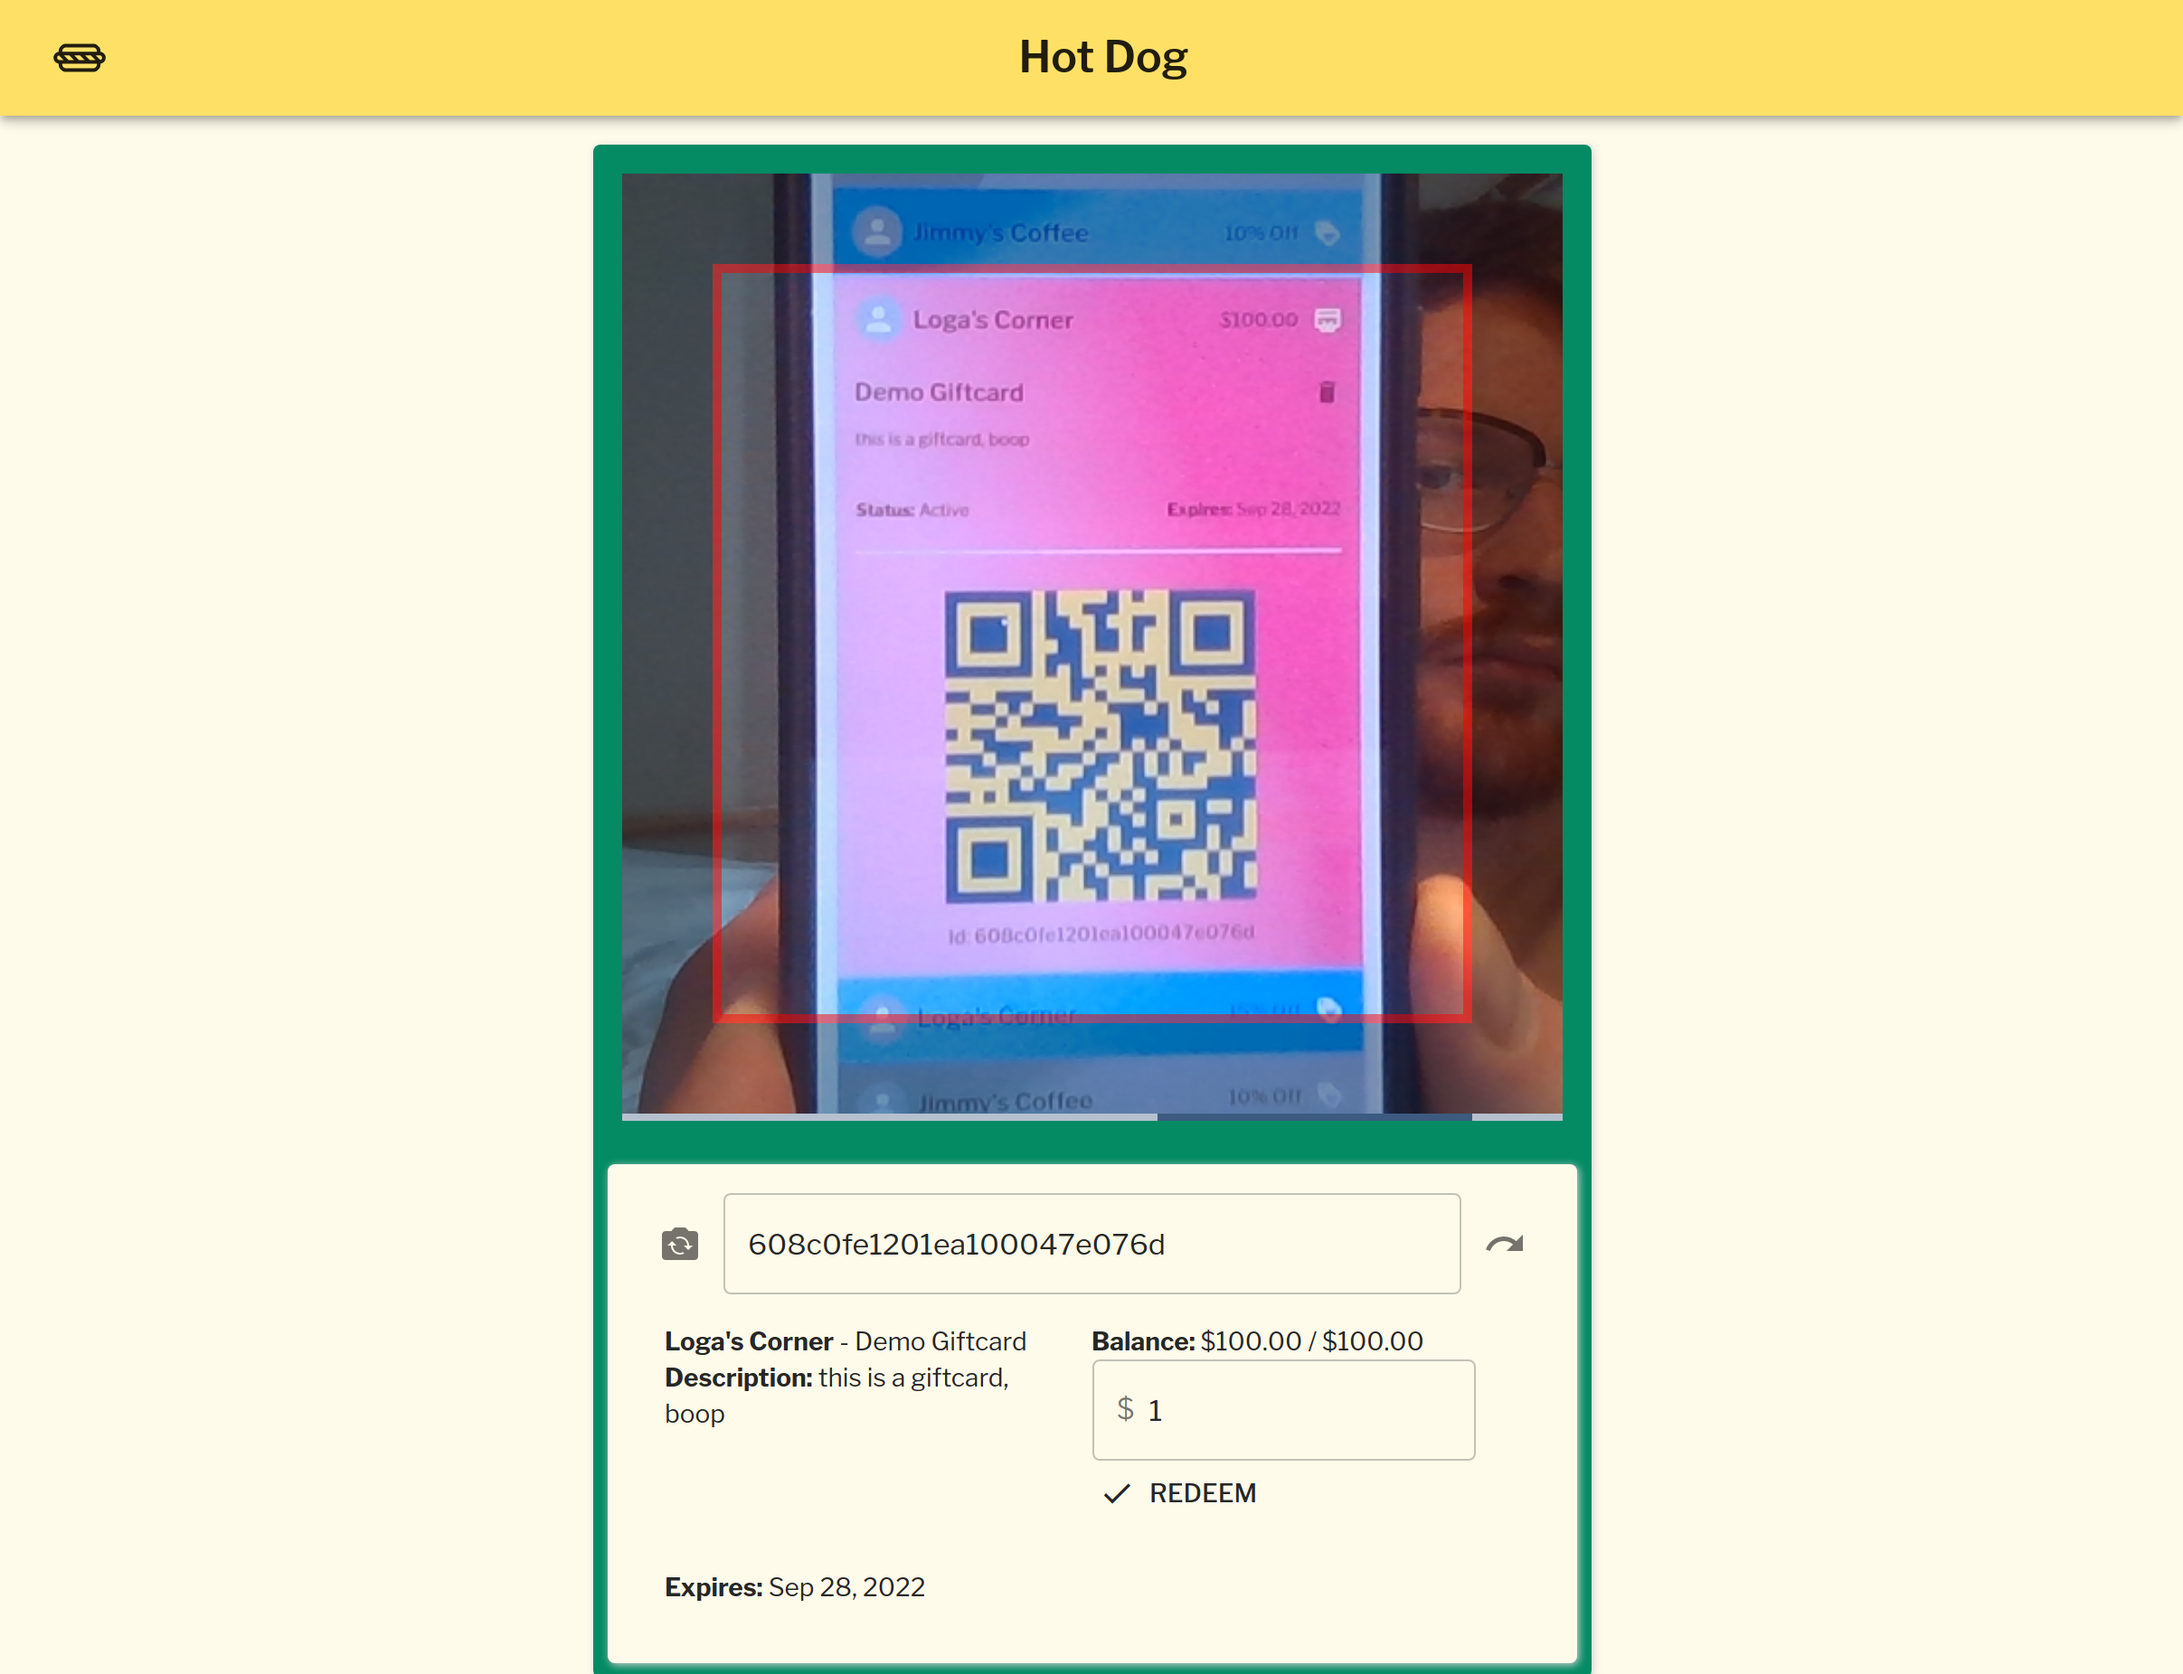
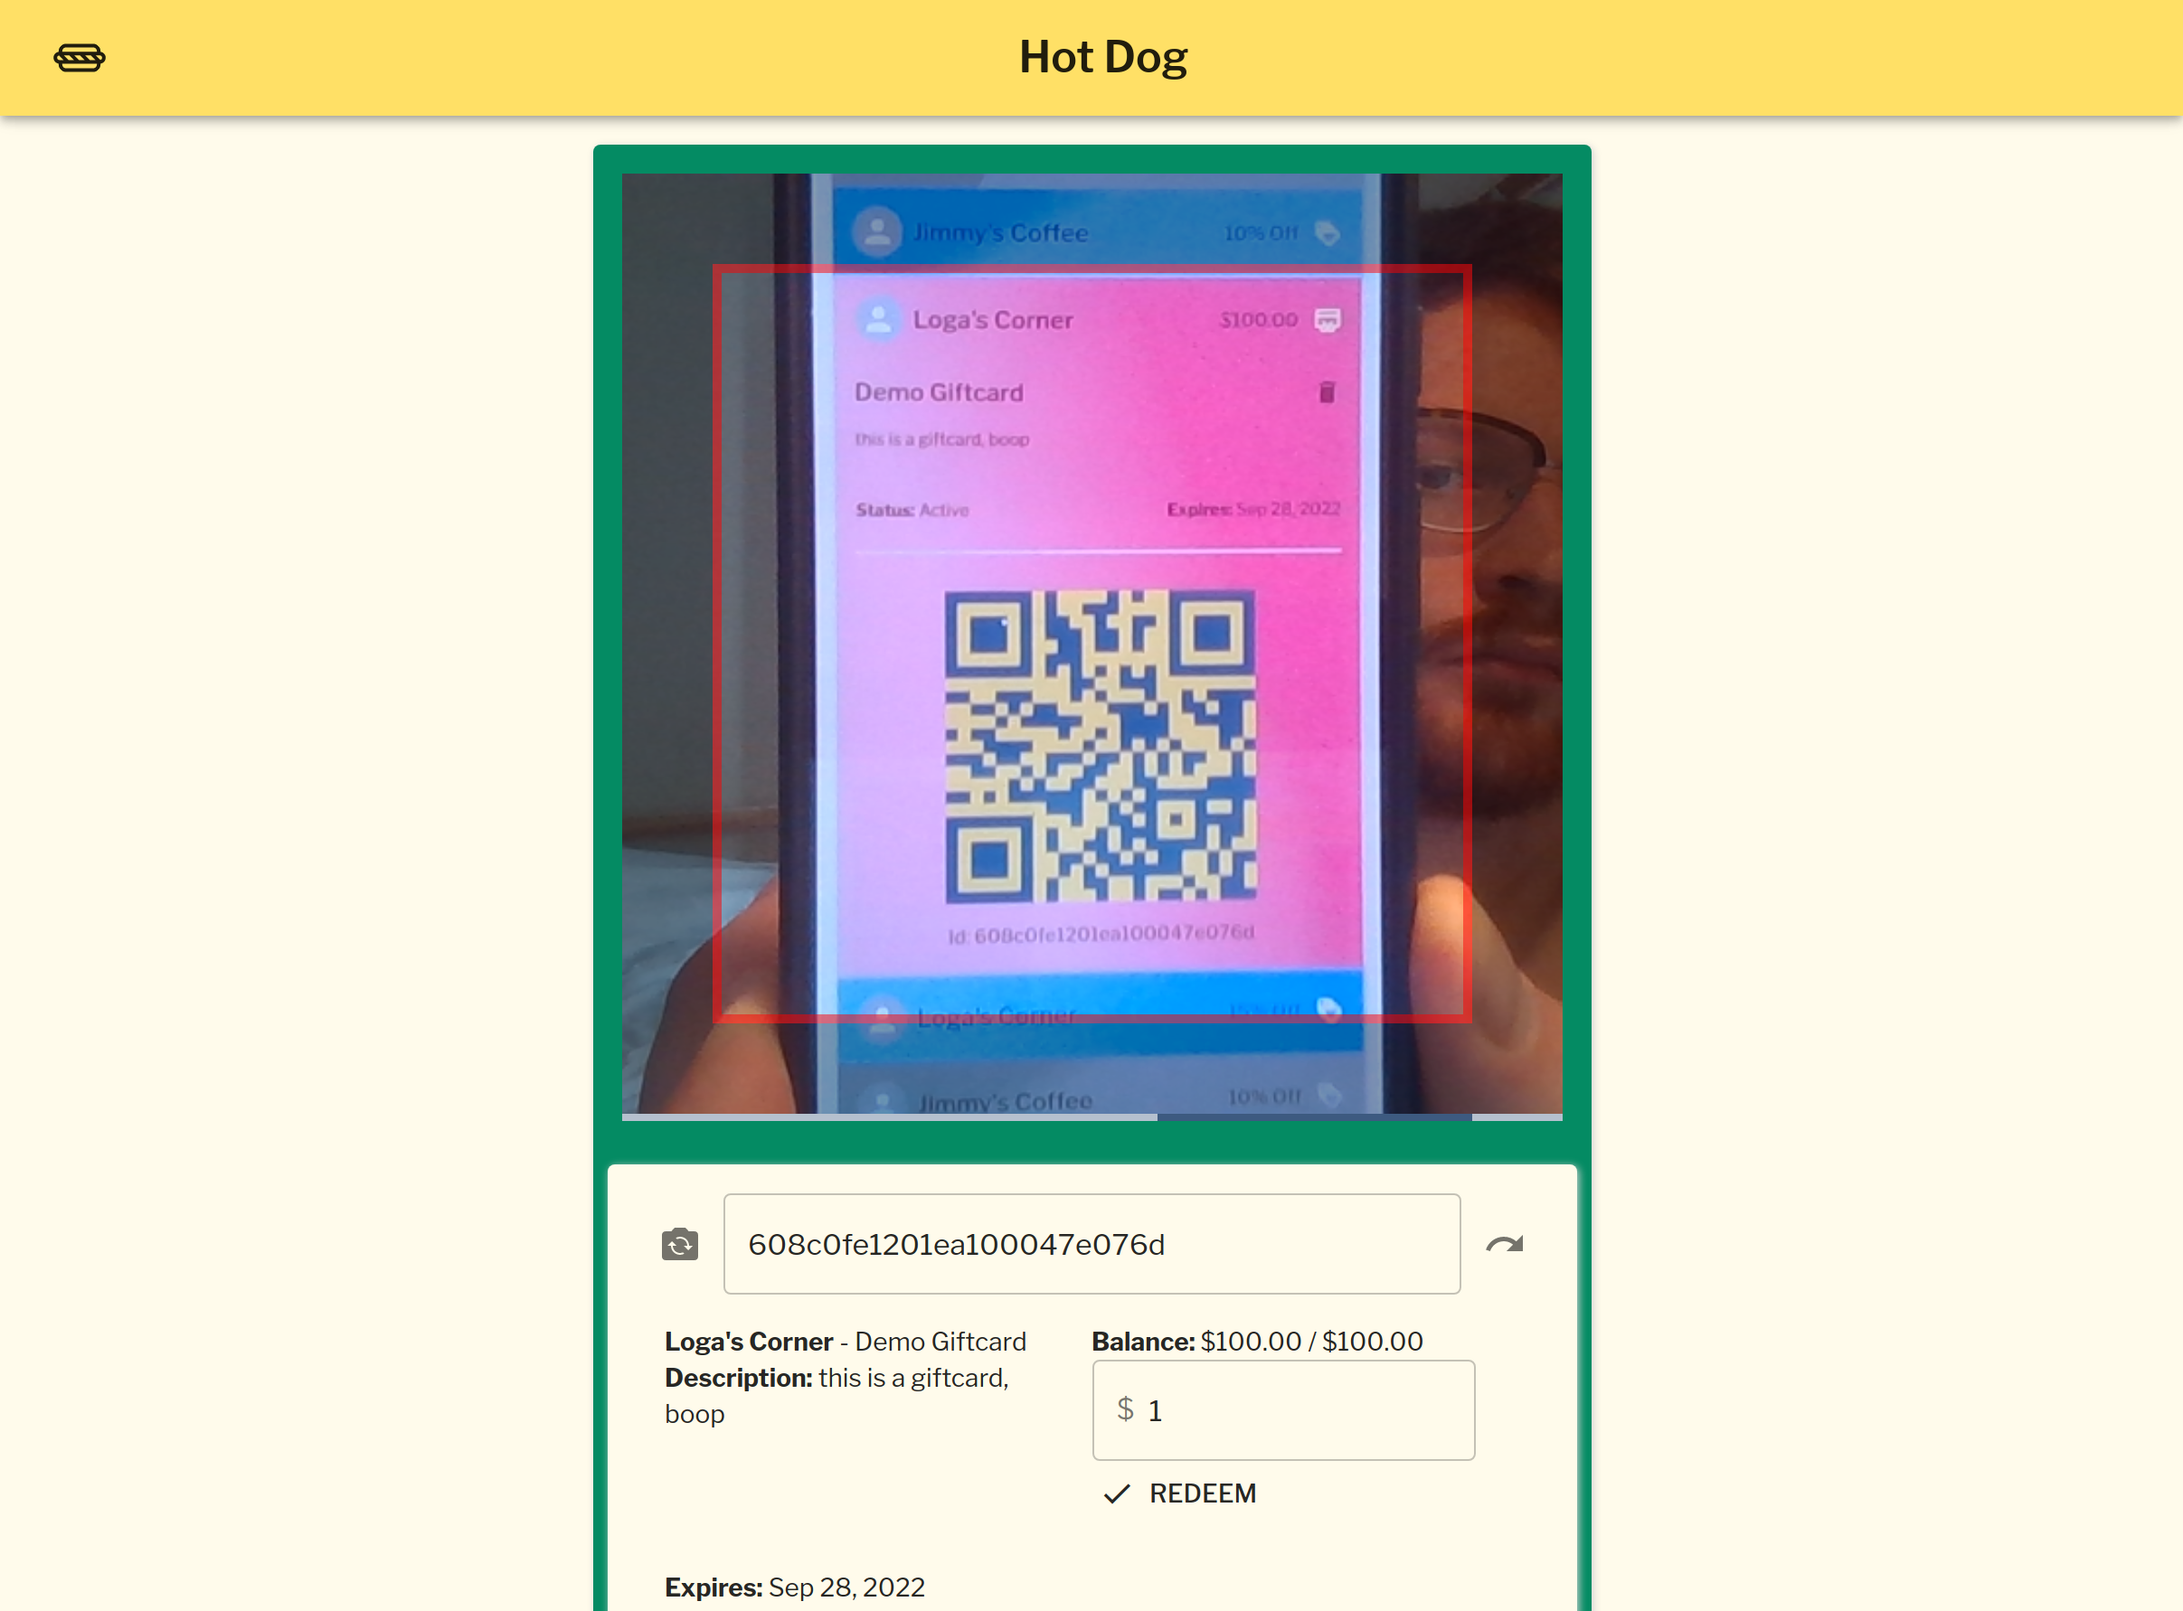
image sizing

Changed region(s): [[0.2796, 0.2469, 0.7457, 0.9568], [0.0, 0.0309, 1.0, 0.3395], [0.2796, 0.9259, 0.7457, 1.0]]

diff --git a/src/pages/App/App.jsx b/src/pages/App/App.jsx
@@ -109,7 +109,7 @@ function App() {
                 classNames='fade'
                 timeout={300}
                 unmountOnExit>
-                <Switch location={location} history={history}>
+                <Switch location={location}>
                   <Route exact path='/' component={Splash} />
                   <Route exact path='/about' component={About} />
                   <Route exact path='/work' component={Work} />

diff --git a/src/components/Carousel/Carousel.jsx b/src/components/Carousel/Carousel.jsx
@@ -29,6 +29,7 @@ const useStyles = makeStyles((theme) => ({
     transition: "background-color 0.5s linear, color 0.5s linear",
   },
   img: {
+    display: "block",
     maxWidth: 500,
     maxHeight: 500,
     marginLeft: "auto",
